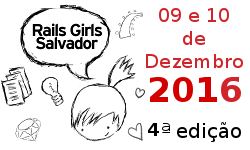
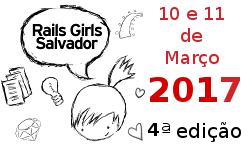
Updated informations for 2017 Salvador Edition

diff --git a/events.html b/events.html
@@ -56,10 +56,10 @@
         <!-- Please add upcoming events to this section sorting the soonest on top -->
         <h2>Upcoming Events</h2>
 
-        <a href="./salvador201612.html" class="event" style="background:url(images/rg-salvador.jpg) 0px -30px no-repeat;">
+        <a href="./salvador2017.html" class="event" style="background:url(images/rg-salvador.jpg) 0px -30px no-repeat;">
             <div>
                 <h3>Salvador, Brazil</h3>
-                <p>09 &amp; 10 December 2016</p>
+                <p>10 &amp; 11 March 2017</p>
             </div>
         </a>
 
